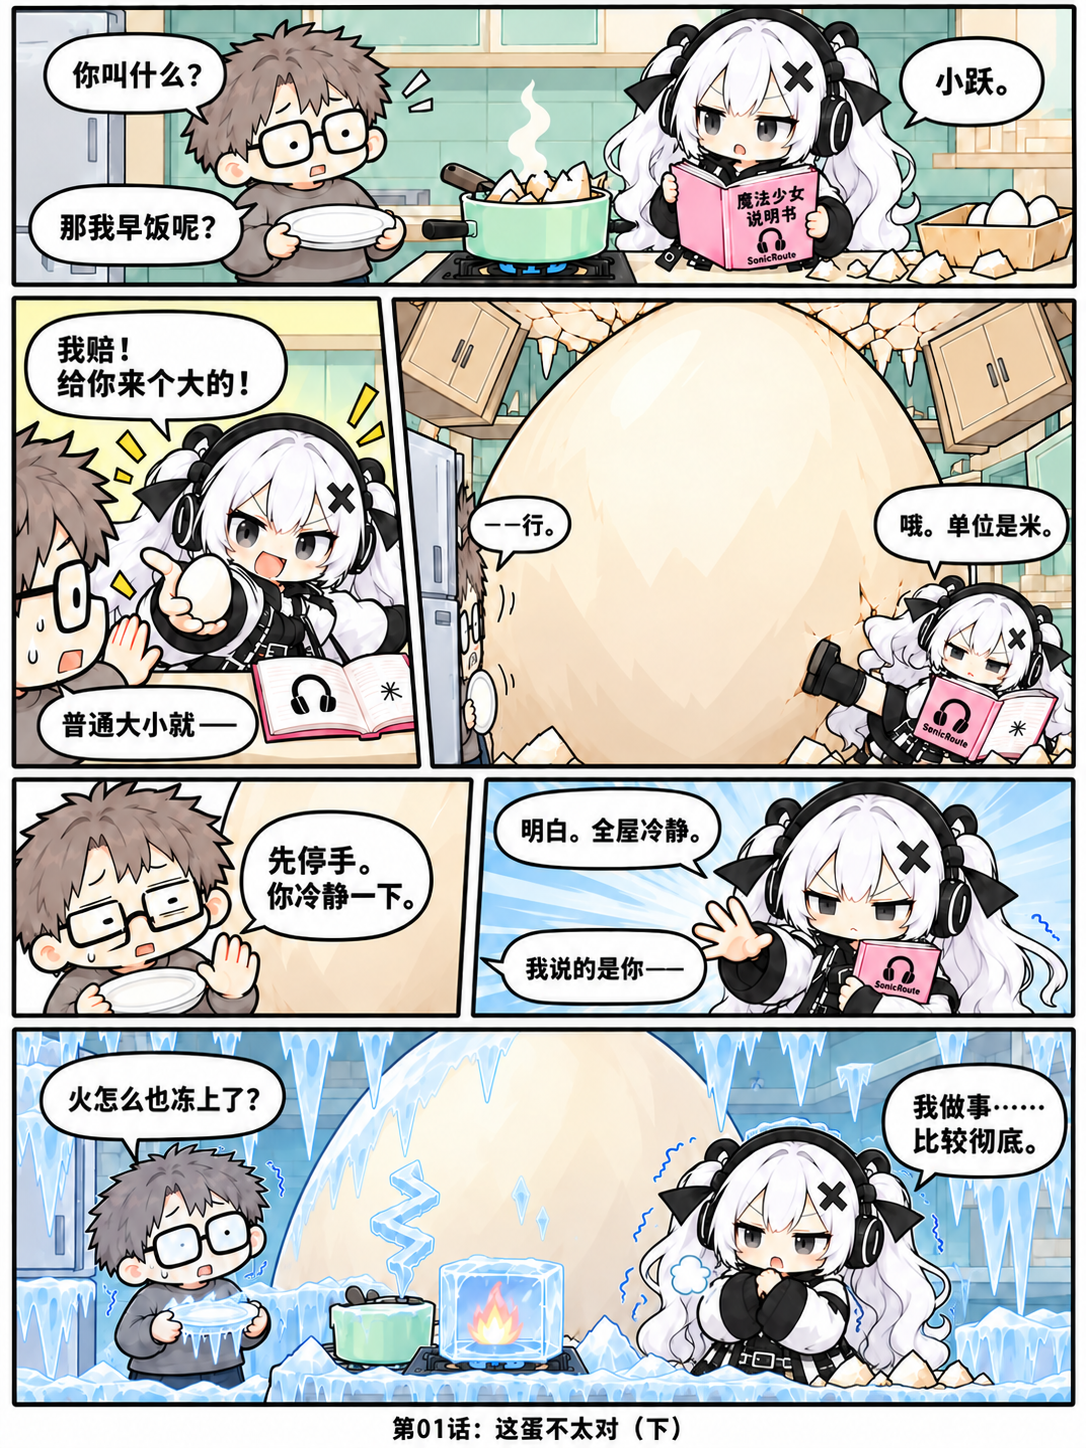
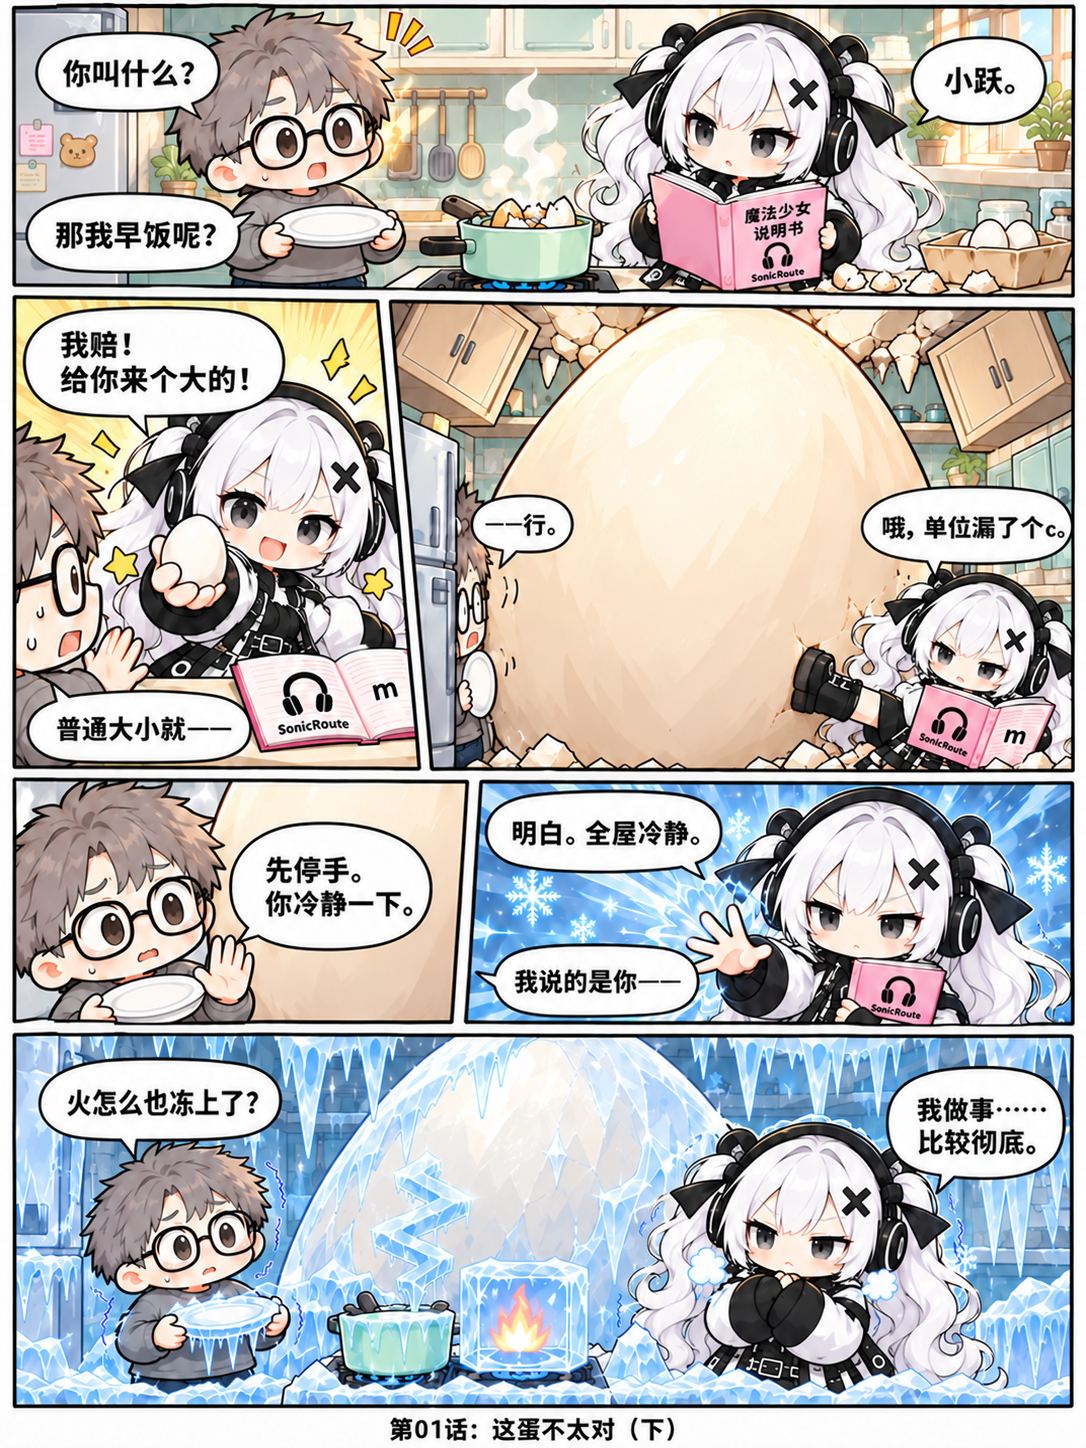
Restore first-version comic art and introduce standalone Tibo bonus

diff --git a/README.md b/README.md
@@ -15,14 +15,16 @@
 
 ## 番外
 
-| 编号 | 标题 | 更新日期 |
+各篇为独立剧集，可单独阅读。
+
+| 短码 | 标题 | 更新日期 |
 | --- | --- | --- |
-| 番外01 | [真正的诞生原因](comics/extra-001-real-origin/README.md) | 2026-10-16 |
+| Tibo | [真正的诞生原因](comics/extra-tibo-real-origin/README.md) | 2026-10-16 |
 
 ## 最新更新
 
-### 第02话：退货退成批发（上）
+### 番外 Tibo：真正的诞生原因
 
-![第02话上篇：想退掉附赠的少女，热心帮忙却让冰冻厨房里多出了四个小跃。](comics/002-return-to-wholesale/part-1.png)
+![番外 Tibo：这周额度还没花完，小跃却在额度重置的催促下诞生了。](comics/extra-tibo-real-origin/Tibo.png)
 
-[独立阅读](comics/002-return-to-wholesale/README.md#上篇) · [查看未压缩原图](comics/002-return-to-wholesale/part-1.png) · [← 第一话下篇](comics/001-this-egg-is-not-right/README.md#下篇)
+[独立阅读](comics/extra-tibo-real-origin/README.md) · [查看未压缩原图](comics/extra-tibo-real-origin/Tibo.png) · [继续正篇：第二话上篇 →](comics/002-return-to-wholesale/README.md#上篇)

diff --git a/comics/extra-001-real-origin/README.md b/comics/extra-001-real-origin/README.md
@@ -1,11 +1,5 @@
-# 番外01：真正的诞生原因
+# 番外 Tibo：真正的诞生原因
 
-2026-10-16
+本篇阅读入口：[打开 Tibo](../extra-tibo-real-origin/README.md)。
 
-额度又重置了，可这周额度还没花完……就这样，在用不完的额度催促下，小跃诞生了！
-
-*一个关于 Tibo 的轻松恶搞番外。*
-
-![番外：真正的诞生原因](bonus.png)
-
-[查看未压缩原图](bonus.png) · [← 番外目录](../../README.md#番外) · [从第一话开始](../001-this-egg-is-not-right/README.md#上篇)
+[查看未压缩原图](bonus.png) · [← 番外目录](../../README.md#番外)

diff --git a/comics/extra-tibo-real-origin/README.md b/comics/extra-tibo-real-origin/README.md
@@ -1,0 +1,11 @@
+# 番外 Tibo：真正的诞生原因
+
+2026-10-16
+
+额度又重置了，可这周额度还没花完……在用不完的额度催促下，小跃诞生了！
+
+*一个关于 Tibo 的独立恶搞番外，与正篇及其他番外不共享剧情。*
+
+![番外 Tibo：真正的诞生原因](Tibo.png)
+
+[查看未压缩原图](Tibo.png) · [← 番外目录](../../README.md#番外) · [从第一话开始](../001-this-egg-is-not-right/README.md#上篇)
